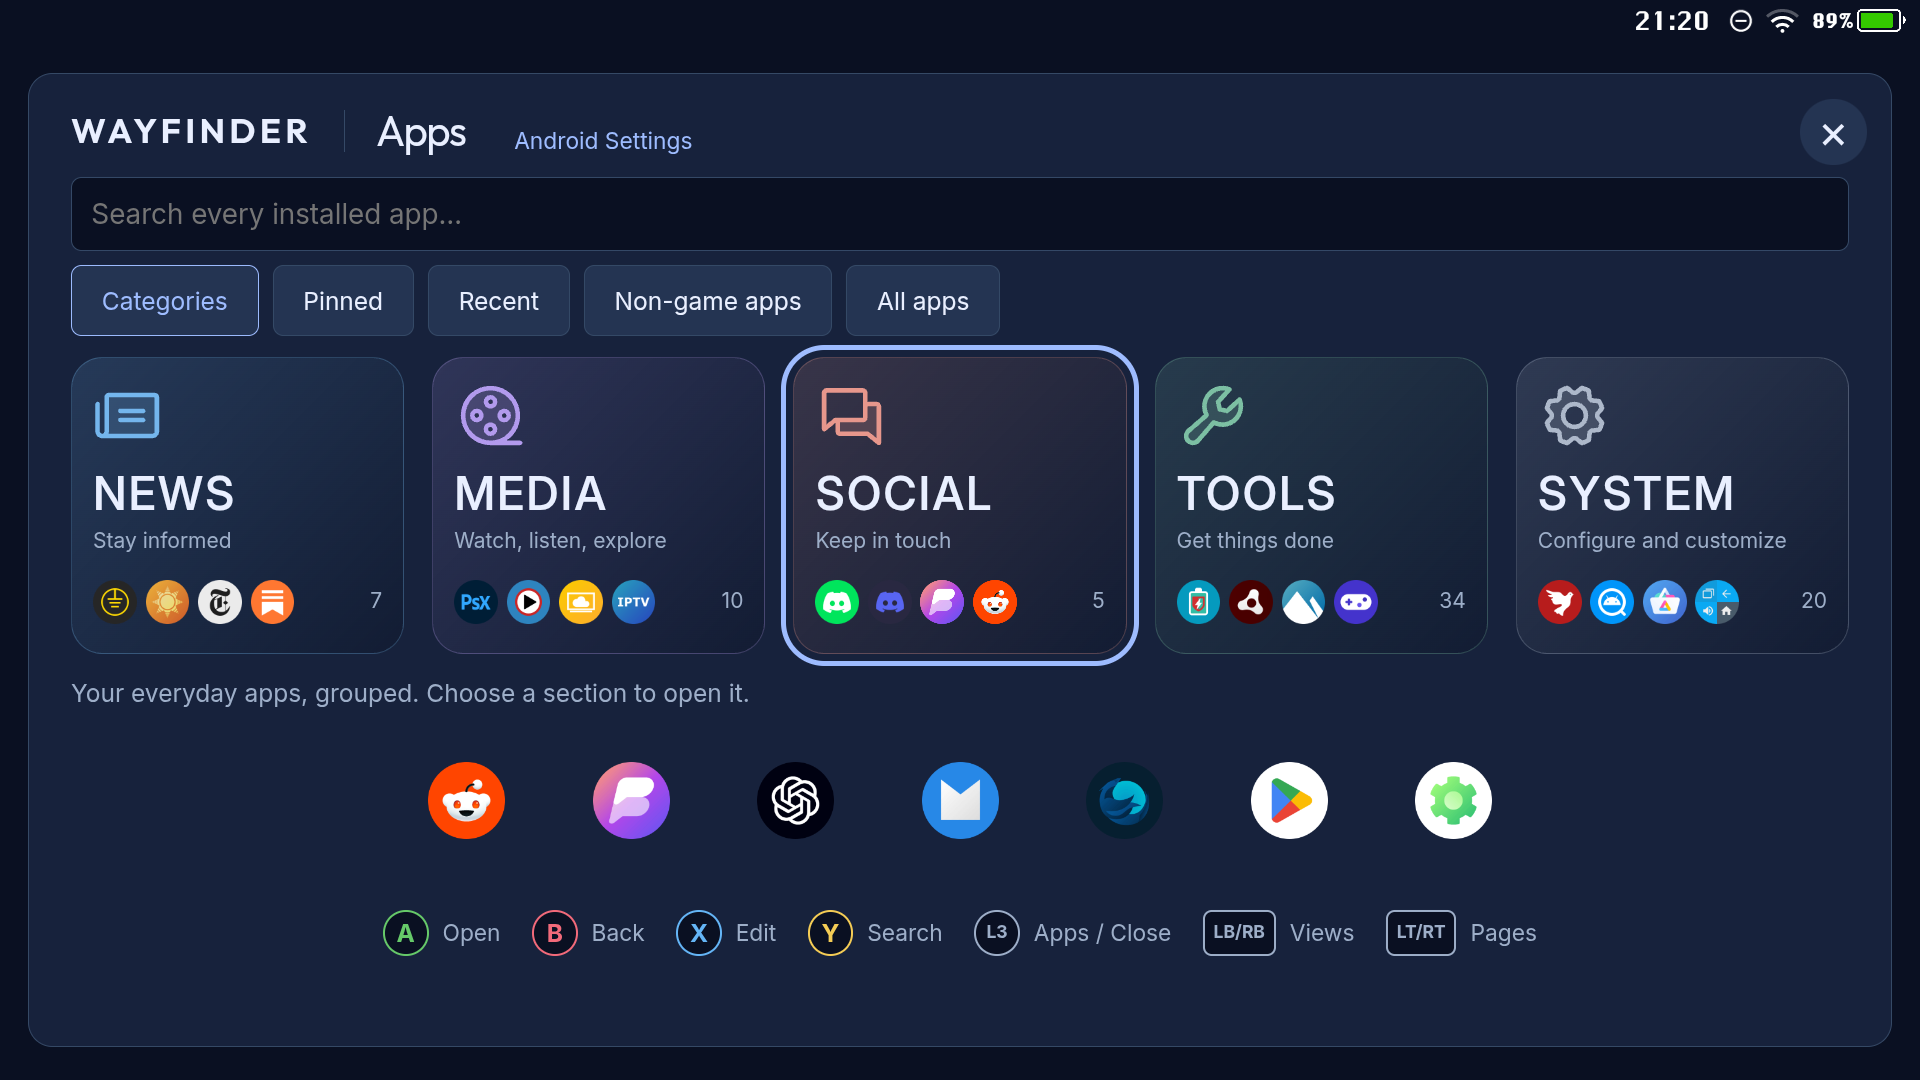
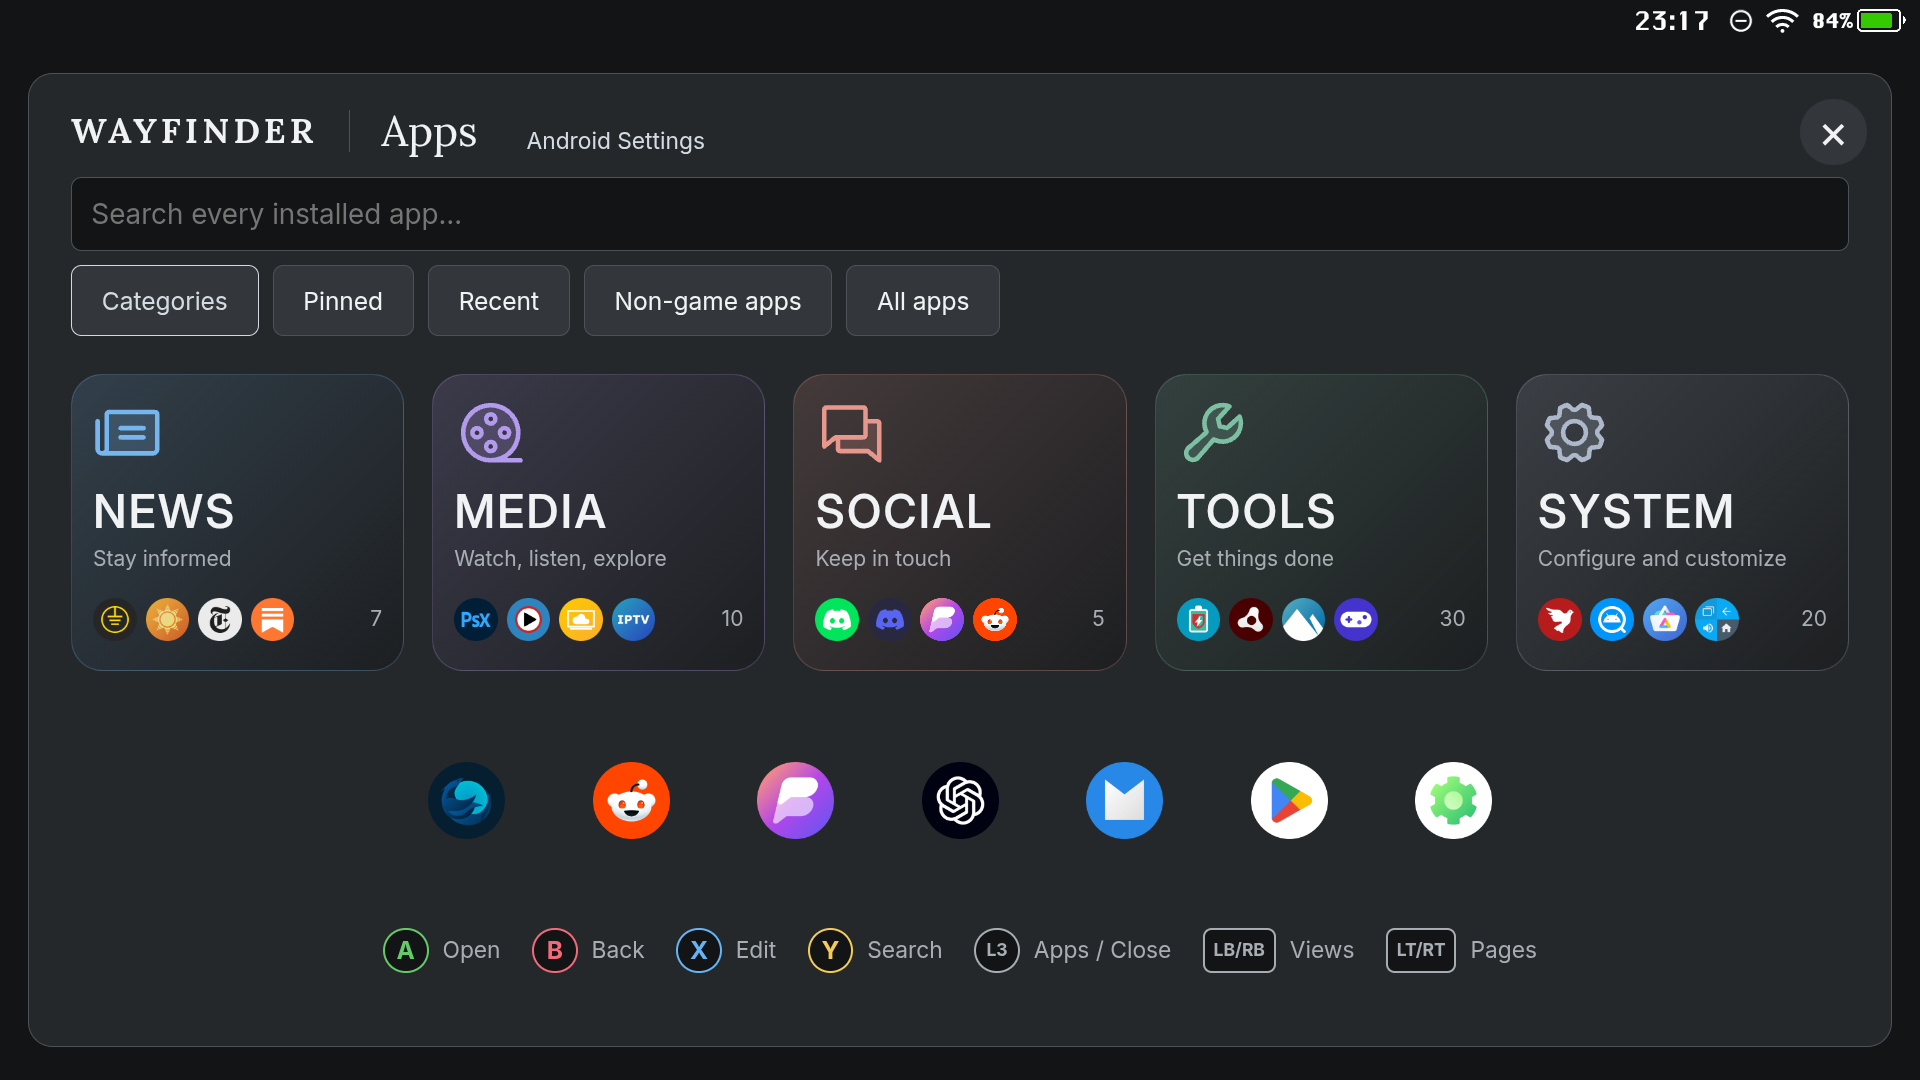
Refresh Apps screenshot for Beta 11

diff --git a/docs/GALLERY.md b/docs/GALLERY.md
@@ -4,7 +4,7 @@
 
 Nine library views and a home for everyday apps. From a quiet title list to a card table, carousel, or wall of artwork, these ten screenshots show how differently the same collection can feel.
 
-Captured directly on a Pimax Portal at **1920 × 1080** on September 27–28, 2026. These are unretouched screenshots of the app. Most show **v0.9.148 Beta 10**; Kyoto was refreshed on September 28 to show the refreshed layout and Smitchish preset now included in Beta 11. Appearance combinations, favorites, and the Copenhagen table were arranged for the gallery. Games and personal cover artwork are not bundled with Wayfinder. Animated backdrops appear as still frames.
+Captured directly on a Pimax Portal at **1920 × 1080** on September 27–28, 2026. These are unretouched screenshots of the app. Most show **v0.9.148 Beta 10**; Kyoto was refreshed on September 28 to show the refreshed layout and Smitchish preset now included in Beta 11. The Apps screenshot was refreshed from Beta 11 to show the more spacious overview. Appearance combinations, favorites, and the Copenhagen table were arranged for the gallery. Games and personal cover artwork are not bundled with Wayfinder. Animated backdrops appear as still frames.
 
 [Copenhagen](#copenhagen) · [Cupertino](#cupertino) · [Ulm](#ulm) · [Venice](#venice) · [Cambridge](#cambridge) · [Kyoto](#kyoto) · [Berlin](#berlin) · [Oxford](#oxford) · [Vienna](#vienna)
 
@@ -86,7 +86,7 @@ An expanded shelf of puzzle platformers sits between compact previews of neighbo
 
 Wayfinder also keeps your everyday Android apps close at hand, with grouped sections and a favorites dock.
 
-**Everyday essentials** — Midnight · Outfit · Phosphor section icons
+**Everyday essentials** — Beta 11 · Phosphor section icons · Australis app icons
 
 News, Media, Social, Tools, and System sit above a dock of pinned apps. Colorful controller hints and customized app icons complete the screen.
 

diff --git a/README.md b/README.md
@@ -74,7 +74,7 @@ You can also enable interface sounds, play the included background music or your
 
 ![Apps: News, Media, Social, Tools, and System sections above a dock of pinned apps, with colorful controller hints.](docs/screenshots/08-apps.png)
 
-*Apps · your everyday essentials, with grouped apps and a favorites dock.*
+*Apps · Beta 11 · five app sections, a spacious favorites dock, and colorful controller hints.*
 
 App icons shown use [Australis – Icon Pack by UNVOID](https://play.google.com/store/apps/details?id=com.unvoid.australis), available separately on Google Play. Section illustrations use [Phosphor Icons](https://phosphoricons.com/).
 
